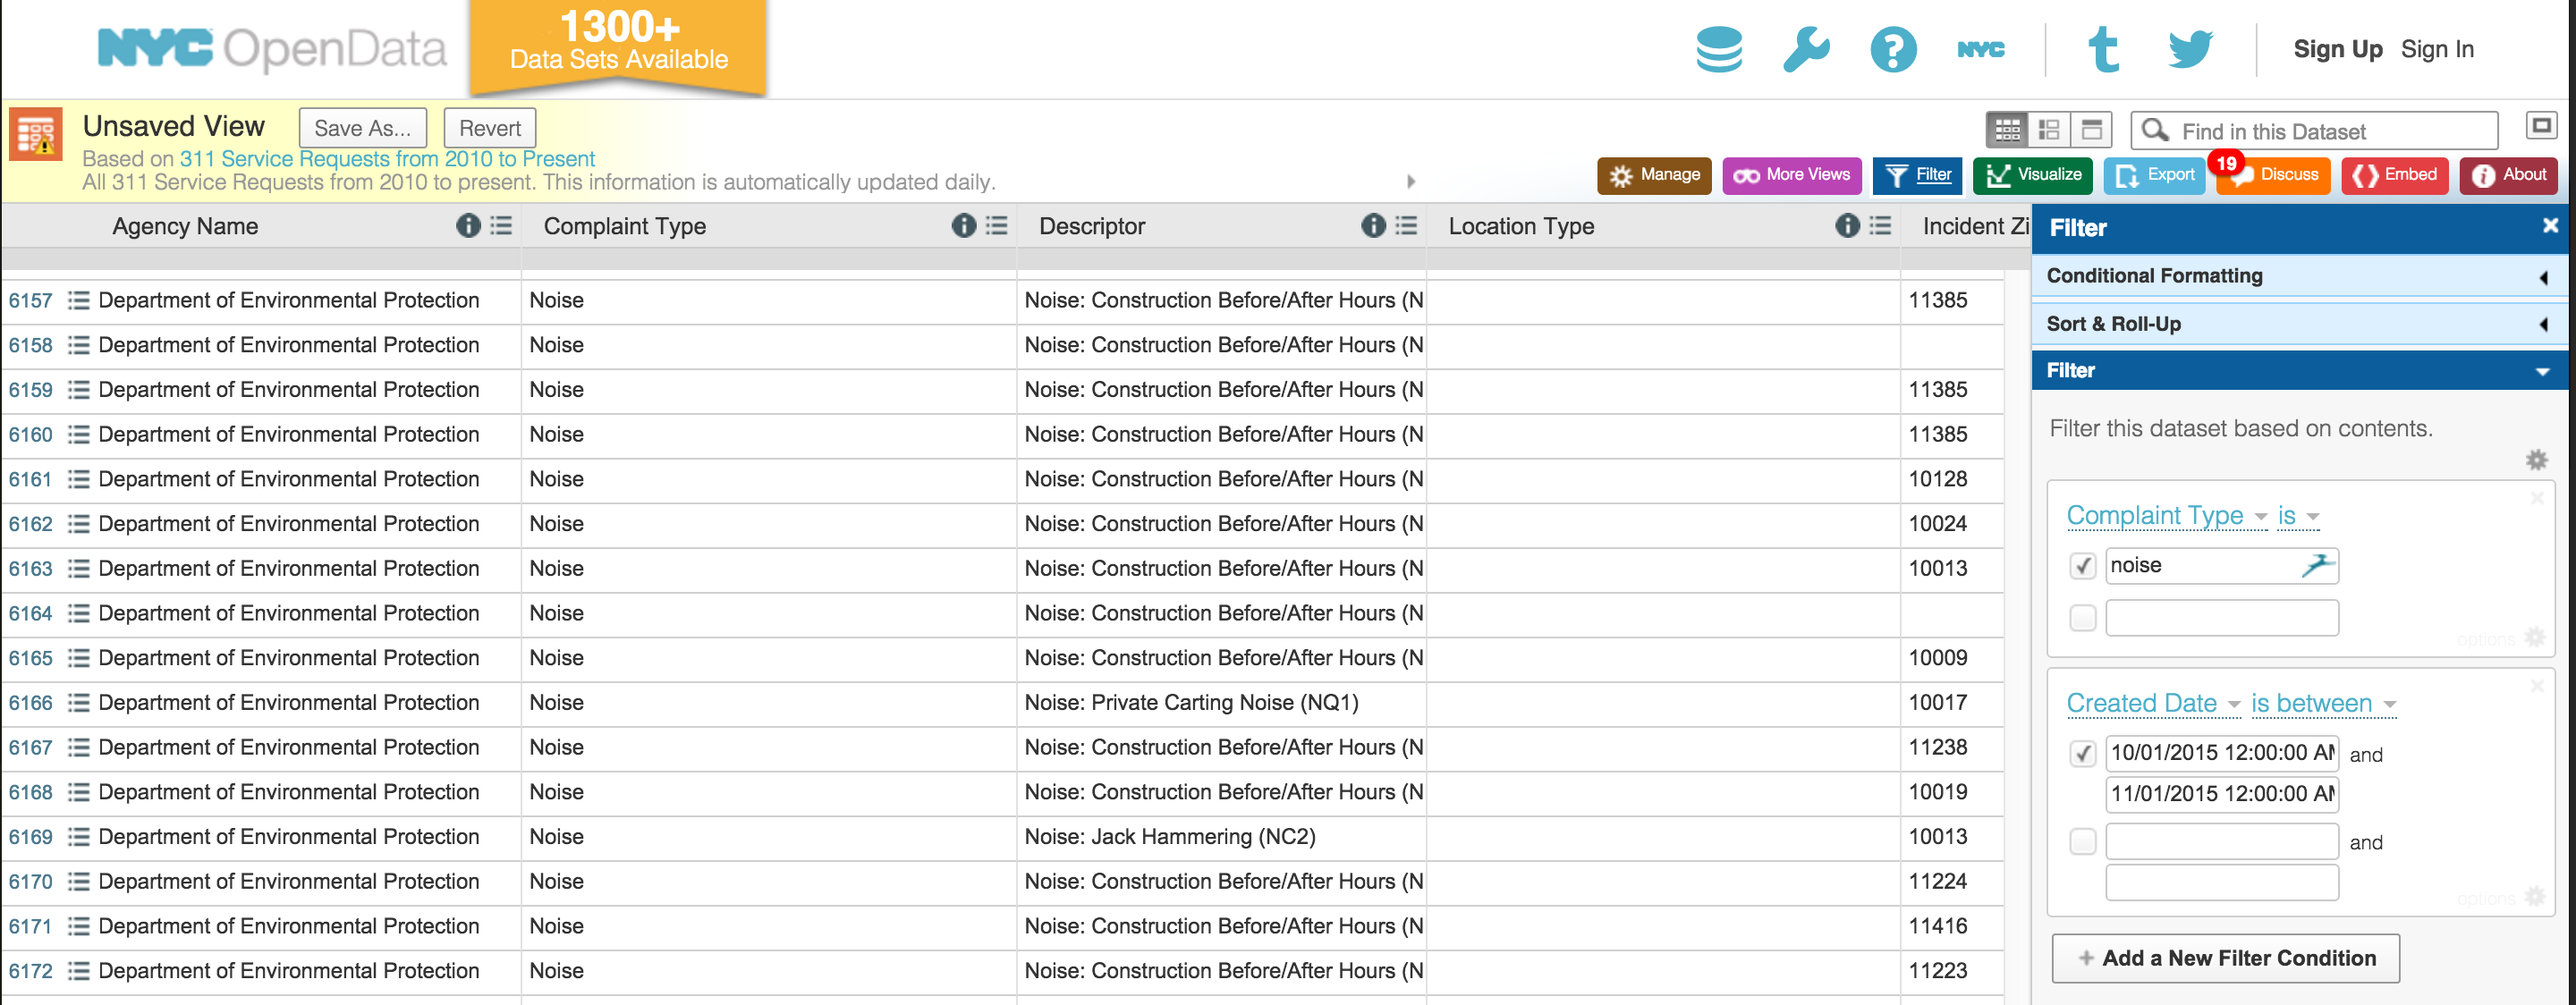
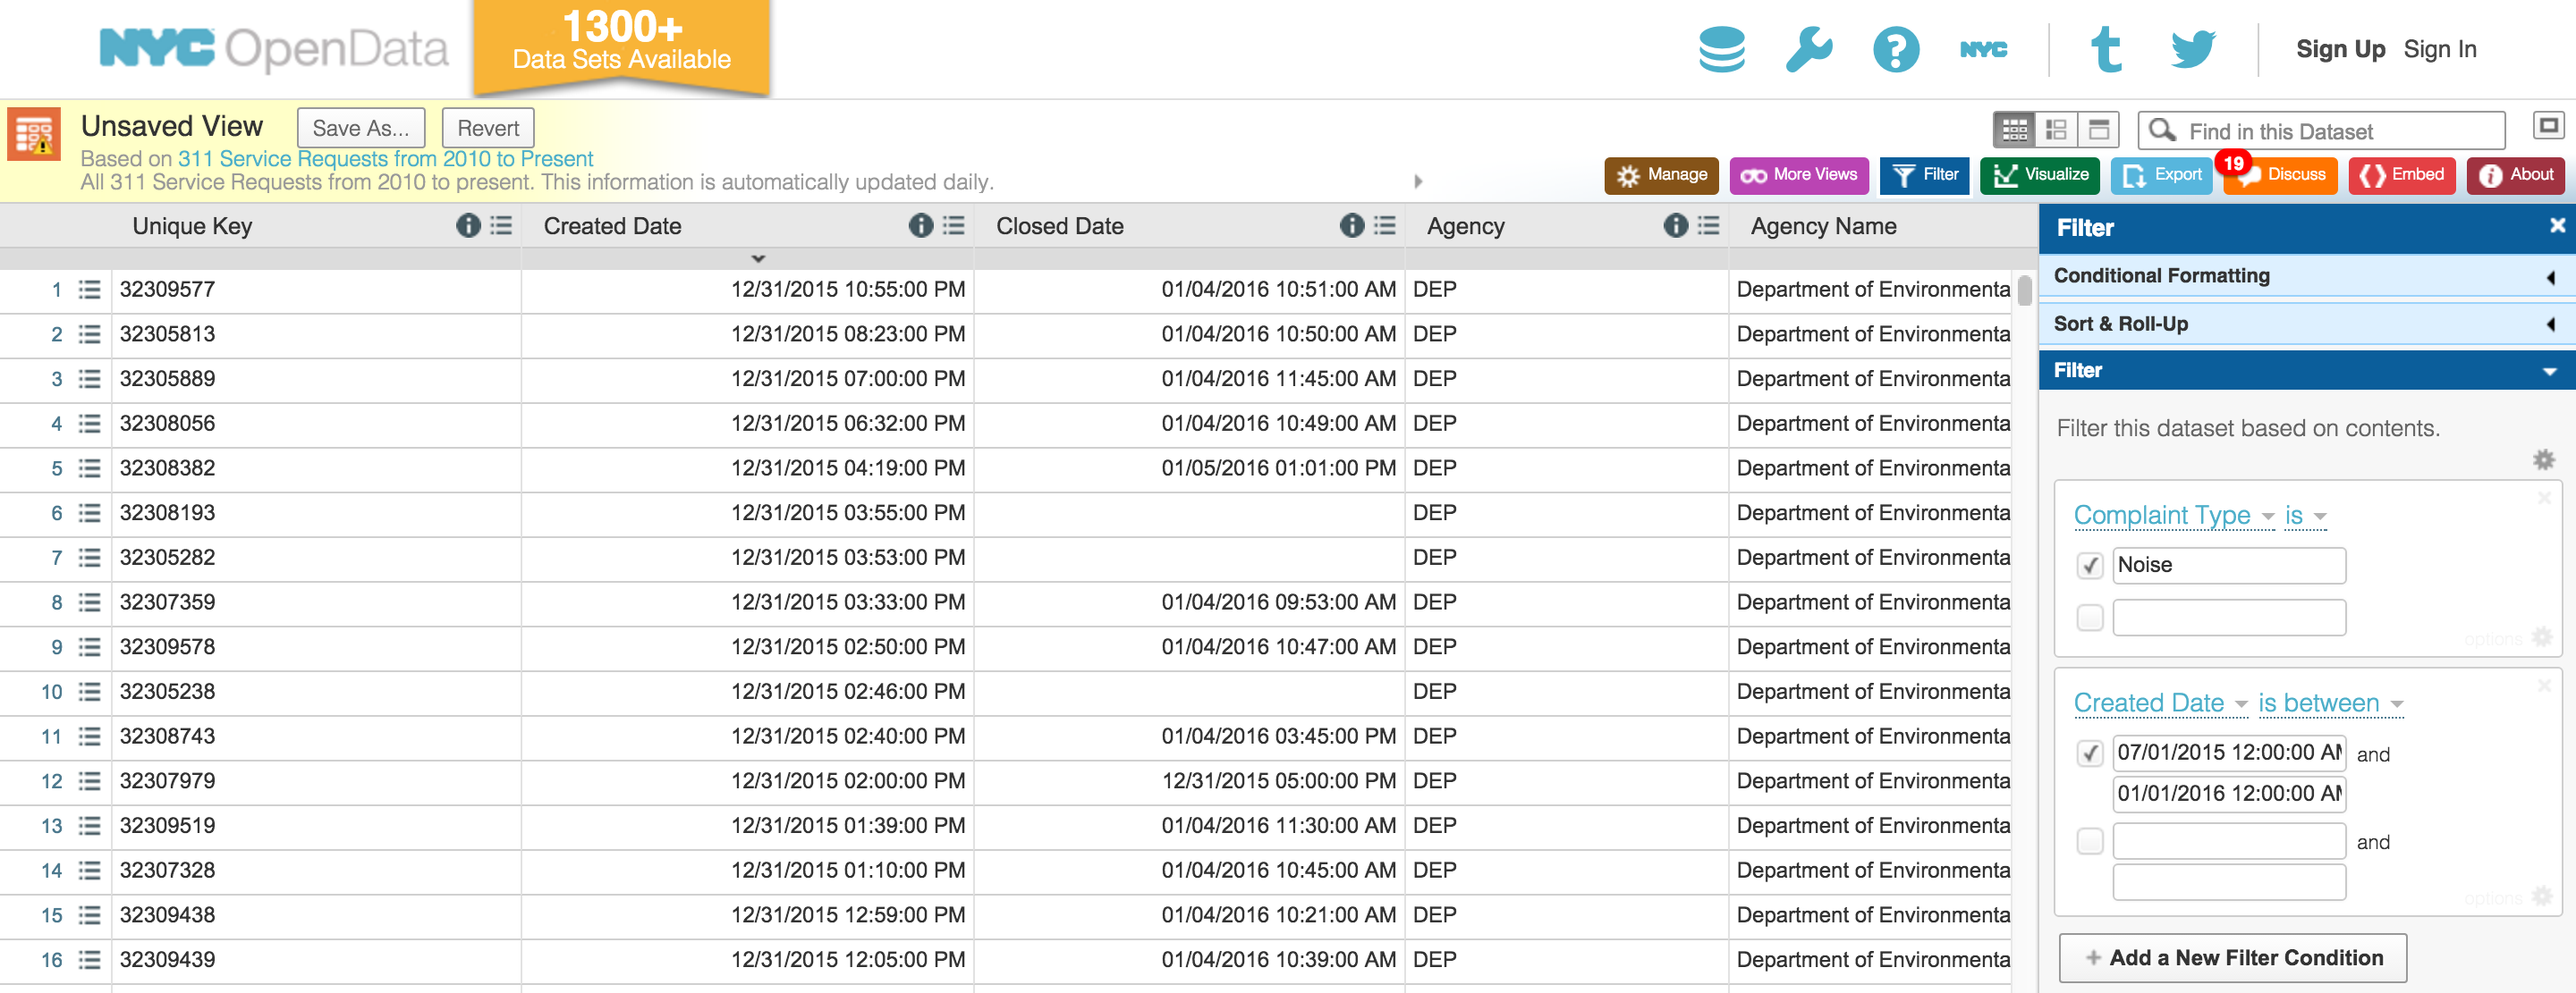
updated tutorial 02

Changed region(s): [[0.0, 0.0, 1.0, 1.0], [0.8438, 0.0306, 0.9688, 0.0612], [0.6562, 0.0306, 0.7812, 0.0612]]

diff --git a/Spring_2016/Tutorials/02_Data_Types_and_311.md b/Spring_2016/Tutorials/02_Data_Types_and_311.md
@@ -39,14 +39,14 @@ The first step in this tutorial is to select, filter and download the 311 data. 
 
 Once you've accessed the dataset you will see something like this:
 ![311 Dataset](https://github.com/juanfrans-courses/mapping_arch_hum/blob/master/Spring_2016/Tutorials/Images/02_Data_Types_and_311/01_311_Dataset.png)
-Here, we need to filter the database to download only the records regarding noise complaints from October 2015. You could attempt to download records for a longer period of time, but the files might get too large. To filter the data do the following:
+Here, we need to filter the database to download only the records regarding noise complaints the last 6 months of 2015. You could attempt to download records for a longer period of time, but the files might get too large. To filter the data do the following:
 * On the right-hand panel, where it says "Filter", create a small query with the drop-down menus that says 'Complaint Type' 'is' and then type in 'Noise'. Make sure there is a check-mark next to the word 'Noise'. You will see how the dataset is filtered and you only get the complaints of type 'Noise'.
-* Next, click on 'Add a New Filter Condition' and create another query that reads 'Created Date' 'is between' '10/1/2015 12:00:00 AM' and '11/1/2015 12:00:00 AM'.
-You should now see the data only for 'Noise' complaints created in October 2015.
+* Next, click on 'Add a New Filter Condition' and create another query that reads 'Created Date' 'is between' '07/1/2015 12:00:00 AM' and '1/1/2016 12:00:00 AM'.
+You should now see the data only for 'Noise' complaints created between the start of July and the end of December 2015.
 * Your filters should look something like this:
 ![311 Filters](https://github.com/juanfrans-courses/mapping_arch_hum/blob/master/Spring_2016/Tutorials/Images/02_Data_Types_and_311/02_Filters.png)
 * Finally, click on the 'Export' button at the top right-hand corner of the site and choose the 'CSV' format. Your file should start downloading then.
-* If you open your .csv file in Excel you will see that there are about 6,180 records and that they have both X and Y coordinates and Latitude and Longitude. In the next steps we will use these fields to add the 311 data to a qGIS map.
+* If you open your .csv file in Excel you will see that there are about 30,380 records and that they have both X and Y coordinates and Latitude and Longitude. In the next steps we will use these fields to add the 311 data to a qGIS map.
 
 #### Adding CSV data to qGIS
 * First, open qGIS and add the following layers (downloaded for the first tutorial):
@@ -64,18 +64,18 @@ You should now see the data only for 'Noise' complaints created in October 2015.
   * X field: `Longitude` and Y field: `Latitude` - (these are the columns in our dataset that contain our location coordinates)
   * Your menu should look something like this:
 ![CSV Menu](https://github.com/juanfrans-courses/mapping_arch_hum/blob/master/Spring_2016/Tutorials/Images/02_Data_Types_and_311/04_CSV_Menu.png)
-* Once you click `OK` you will get a warning that says that 97 number of records were discarded because they didn't have geometry definitions. Click `Close`. These were some records in the dataset that we downloaded that for some reason didn't include location data.
+* Once you click `OK` you will get a warning that says that 547 records were discarded because they didn't have geometry definitions. Click `Close`. These were some records in the dataset that we downloaded that for some reason didn't include location data.
 * Next, qGIS will ask you to select a coordinate reference system (map projection) for this layer. Since we are adding this data based on the latitude and longitude information (decimal degrees, as opposed to feet) we need to select the `WGS 84`, which is the coordinate system that will correctly interpret this data. You will find it under `Geographic Coordinate Systems`. You will find more information on this coordinate system [here](https://en.wikipedia.org/wiki/World_Geodetic_System). Once you select the correct coordinate system, your points will appear on the map.
 * Even though your points are already on the map, this is just a temporary layer. If you remove the layer, you will need to go through the whole importing process to add them again. To avoid this, export the points as a Shapefile:
-  * Right-click on the new layer and select `Save As...`.
+  * Right-click on the new layer and select `Save As...`
   * In the menu choose the following:
     * Format: `ESRI Shapefile` - (this is the same format of our other layers)
-    * Save as: choose the right location and name your file `311_Data`
+    * Save as: choose the right location and name your file '311_Data'
     * CRS: `EPSG:102718 - NAD_1983_StatePlane_New_York_Long_Island_FIPS_3104_Feet` - (this is the coordinate system we are working with and we want this layer to have the same one)
     * Uncheck `Skip attribute creation` - (you still want to retain the attributes associated with each point)
     * Check `Add saved file to map` - (so that once you export the layer, the layer is added to your map)
   * Once you export your layer (and it's automatically added to your map) you can remove the original one by right-clicking and choosing `Remove`.
-  
+
 
 
 
